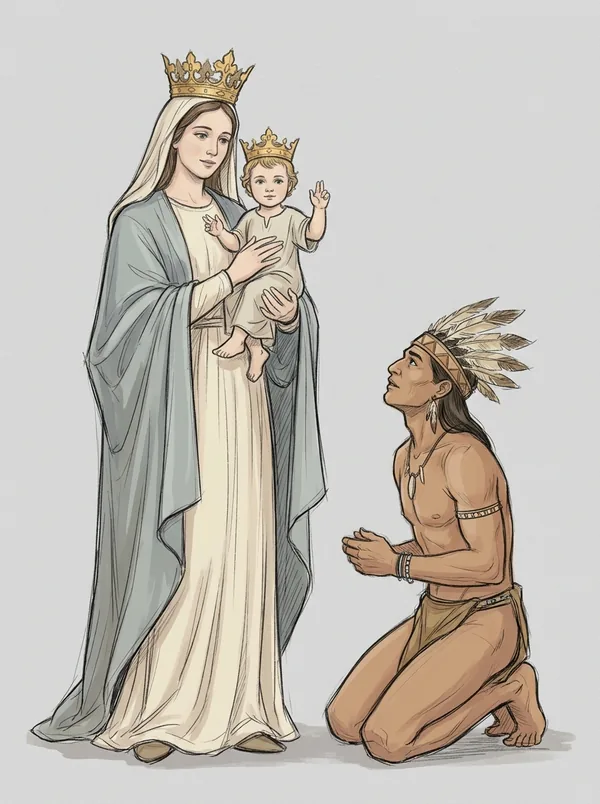
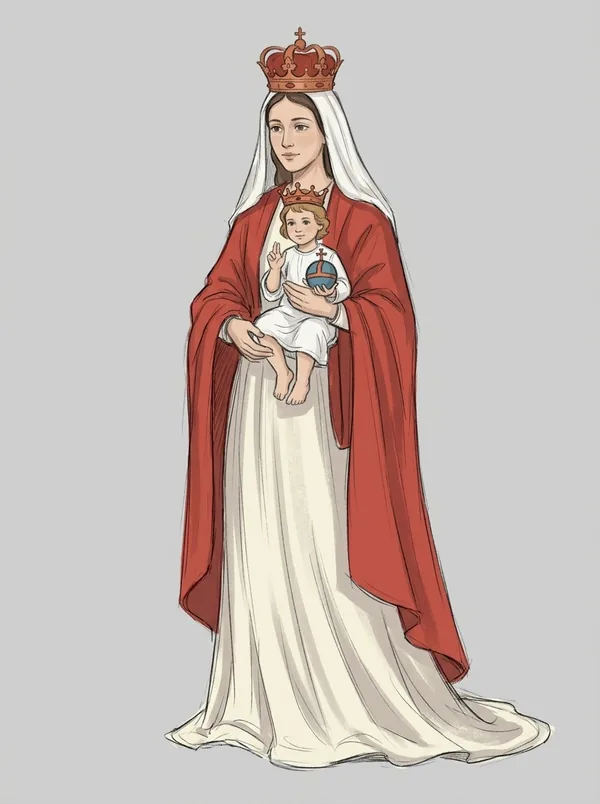
Imágenes de los mártires (87-196) y nuevas versiones de Coromoto y La Chinita
Claude-Session: https://claude.ai/code/session_01X8yUa1PNiuxEw1oE5aBwqR

diff --git a/data/imagenes.js b/data/imagenes.js
@@ -1,3 +1,3 @@
 /* Generado por tools/actualizar_imagenes.py: cromos que ya tienen imagen */
-window.IMAGENES = {"1": "webp", "2": "webp", "3": "webp", "4": "webp", "5": "webp", "6": "webp", "7": "webp", "8": "webp", "9": "webp", "10": "webp", "11": "webp", "12": "webp", "13": "webp", "14": "webp", "15": "webp", "16": "webp", "17": "webp", "18": "webp", "19": "webp", "20": "webp", "21": "webp", "22": "webp", "23": "webp", "24": "webp", "25": "webp", "26": "webp", "27": "webp", "28": "webp", "29": "webp", "30": "webp", "31": "webp", "32": "webp", "33": "webp", "34": "webp", "35": "webp", "36": "webp", "37": "webp", "38": "webp", "39": "webp", "40": "webp", "41": "webp", "42": "webp", "43": "webp", "44": "webp", "45": "webp", "46": "webp", "47": "webp", "48": "webp", "49": "webp", "50": "webp", "51": "webp", "52": "webp", "53": "webp", "54": "webp", "55": "webp", "56": "webp", "57": "webp", "58": "webp", "59": "webp", "60": "webp", "61": "webp", "62": "webp", "63": "webp", "64": "webp", "65": "webp", "66": "webp", "67": "webp", "68": "webp", "69": "webp", "70": "webp", "71": "webp", "72": "webp", "73": "webp", "74": "webp", "75": "webp", "76": "webp", "77": "webp", "78": "webp", "79": "webp", "80": "webp", "81": "webp", "82": "webp", "83": "webp", "84": "webp", "85": "webp", "86": "webp"};
-window.IMAGENES_V = 1793720413;
+window.IMAGENES = {"1": "webp", "2": "webp", "3": "webp", "4": "webp", "5": "webp", "6": "webp", "7": "webp", "8": "webp", "9": "webp", "10": "webp", "11": "webp", "12": "webp", "13": "webp", "14": "webp", "15": "webp", "16": "webp", "17": "webp", "18": "webp", "19": "webp", "20": "webp", "21": "webp", "22": "webp", "23": "webp", "24": "webp", "25": "webp", "26": "webp", "27": "webp", "28": "webp", "29": "webp", "30": "webp", "31": "webp", "32": "webp", "33": "webp", "34": "webp", "35": "webp", "36": "webp", "37": "webp", "38": "webp", "39": "webp", "40": "webp", "41": "webp", "42": "webp", "43": "webp", "44": "webp", "45": "webp", "46": "webp", "47": "webp", "48": "webp", "49": "webp", "50": "webp", "51": "webp", "52": "webp", "53": "webp", "54": "webp", "55": "webp", "56": "webp", "57": "webp", "58": "webp", "59": "webp", "60": "webp", "61": "webp", "62": "webp", "63": "webp", "64": "webp", "65": "webp", "66": "webp", "67": "webp", "68": "webp", "69": "webp", "70": "webp", "71": "webp", "72": "webp", "73": "webp", "74": "webp", "75": "webp", "76": "webp", "77": "webp", "78": "webp", "79": "webp", "80": "webp", "81": "webp", "82": "webp", "83": "webp", "84": "webp", "85": "webp", "86": "webp", "87": "webp", "88": "webp", "89": "webp", "90": "webp", "91": "webp", "92": "webp", "93": "webp", "94": "webp", "95": "webp", "96": "webp", "97": "webp", "98": "webp", "99": "webp", "100": "webp", "101": "webp", "102": "webp", "103": "webp", "104": "webp", "105": "webp", "106": "webp", "107": "webp", "108": "webp", "109": "webp", "110": "webp", "111": "webp", "112": "webp", "113": "webp", "114": "webp", "115": "webp", "116": "webp", "117": "webp", "118": "webp", "119": "webp", "120": "webp", "121": "webp", "122": "webp", "123": "webp", "124": "webp", "125": "webp", "126": "webp", "127": "webp", "128": "webp", "129": "webp", "130": "webp", "131": "webp", "132": "webp", "133": "webp", "134": "webp", "135": "webp", "136": "webp", "137": "webp", "138": "webp", "139": "webp", "140": "webp", "141": "webp", "142": "webp", "143": "webp", "144": "webp", "145": "webp", "146": "webp", "147": "webp", "148": "webp", "149": "webp", "150": "webp", "151": "webp", "152": "webp", "153": "webp", "154": "webp", "155": "webp", "156": "webp", "157": "webp", "158": "webp", "159": "webp", "160": "webp", "161": "webp", "162": "webp", "163": "webp", "164": "webp", "165": "webp", "166": "webp", "167": "webp", "168": "webp", "169": "webp", "170": "webp", "171": "webp", "172": "webp", "173": "webp", "174": "webp", "175": "webp", "176": "webp", "177": "webp", "178": "webp", "179": "webp", "180": "webp", "181": "webp", "182": "webp", "183": "webp", "184": "webp", "185": "webp", "186": "webp", "187": "webp", "188": "webp", "189": "webp", "190": "webp", "191": "webp", "192": "webp", "193": "webp", "194": "webp", "195": "webp", "196": "webp"};
+window.IMAGENES_V = 1793721971;

diff --git a/index.html b/index.html
@@ -15,7 +15,7 @@
   <link rel="apple-touch-icon" href="icons/apple-touch-icon.png">
   <link rel="preload" href="fonts/outfit-latin.woff2" as="font" type="font/woff2" crossorigin>
   <link rel="preload" href="fonts/grenze-latin.woff2" as="font" type="font/woff2" crossorigin>
-  <link rel="stylesheet" href="css/app.css?v=8">
+  <link rel="stylesheet" href="css/app.css?v=9">
 </head>
 <body>
   <div class="app">
@@ -82,9 +82,9 @@
 
   <div class="toast" id="toast"></div>
 
-  <script src="data/santos.js?v=8"></script>
-  <script src="data/retos.js?v=8"></script>
-  <script src="data/imagenes.js?v=8"></script>
-  <script src="js/app.js?v=8"></script>
+  <script src="data/santos.js?v=9"></script>
+  <script src="data/retos.js?v=9"></script>
+  <script src="data/imagenes.js?v=9"></script>
+  <script src="js/app.js?v=9"></script>
 </body>
 </html>

diff --git a/sw.js b/sw.js
@@ -1,6 +1,6 @@
 /* Service worker: la app funciona sin conexión.
    Sube VERSION cada vez que cambies archivos de la app. */
-const VERSION = "v8";
+const VERSION = "v9";
 const SHELL = `santos-shell-${VERSION}`;
 const IMGS = `santos-img-${VERSION}`;
 const FILES = [
